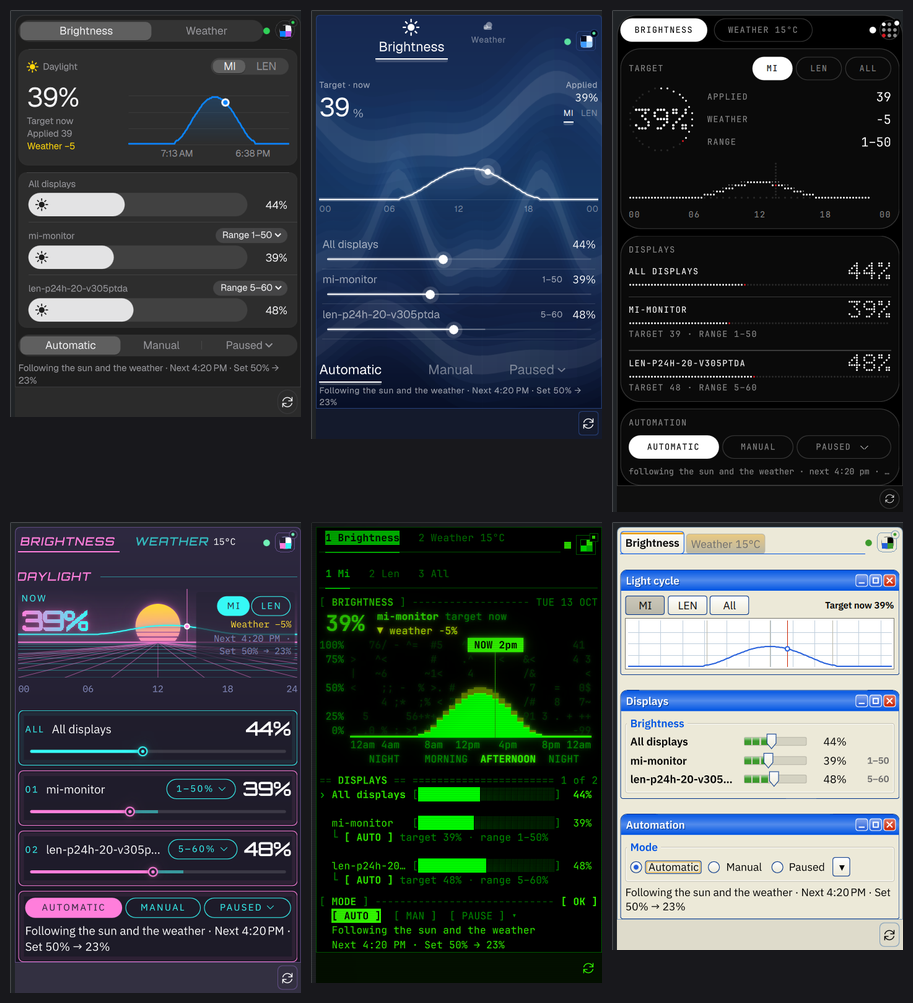
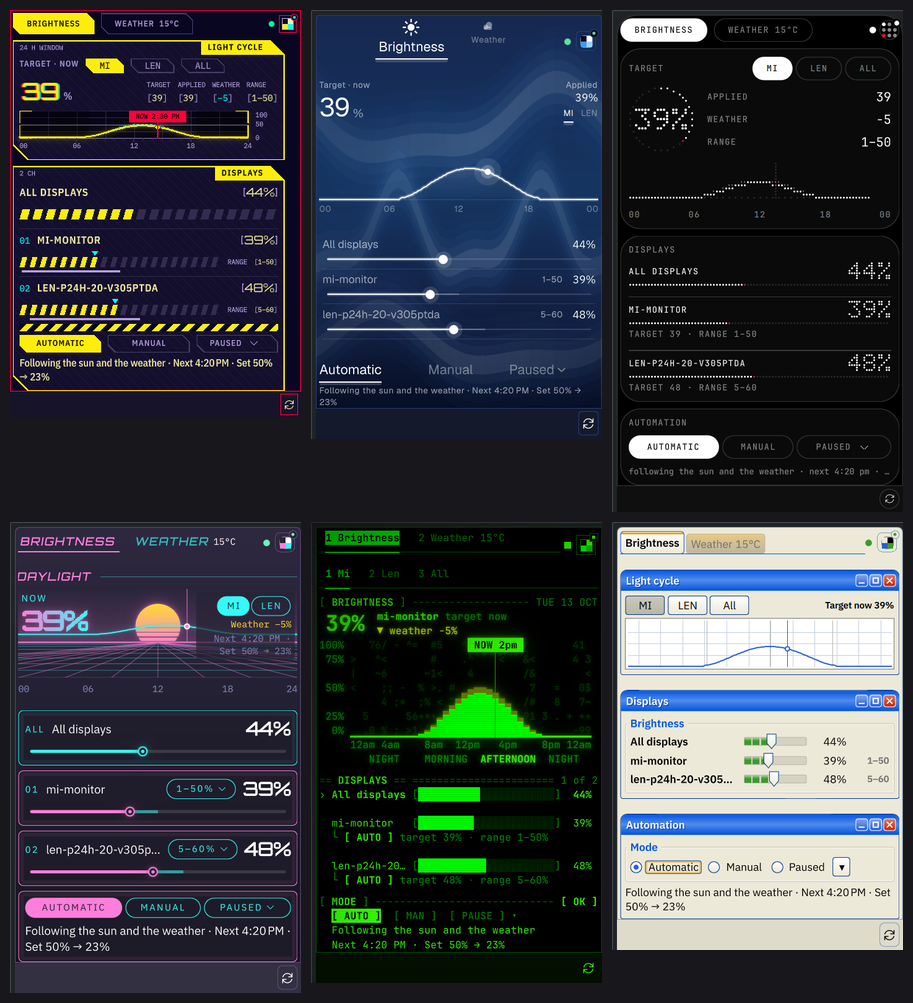
docs(readme): add KDE to Plasma widget, promote section order, feature Cyberpunk theme

Changed region(s): [[0.0, 0.0, 0.3373, 0.4327]]

diff --git a/README.md b/README.md
@@ -3,7 +3,7 @@
   <br/>
   <a href="https://ratatui.rs"><img src="https://img.shields.io/badge/Built_with-Ratatui-000?logo=ratatui&logoColor=fff&labelColor=201a16&color=ffd970" alt="Built with Ratatui" /></a>
   <img src="https://img.shields.io/badge/Language-Rust_1.80+-orange?logo=rust&logoColor=white" alt="Rust" />
-  <img src="https://img.shields.io/badge/Platform-Linux_|_Windows-blue" alt="Platform" />
+  <img src="https://img.shields.io/badge/Platform-Linux-blue" alt="Platform" />
   <img src="https://img.shields.io/badge/License-GPL--3.0--or--later-blue.svg" alt="License" />
 </div>
 
@@ -29,6 +29,39 @@ SunReactor features an immediate-style, terminal UI built with `ratatui` with 40
 
 ---
 
+## // KDE PLASMA WIDGET
+
+A KDE Plasma 6 panel widget with a popup: day curve, a slider per display, automation mode and weather. It follows the terminal UI's theme or a pinned one. It is a QML package with a small C++ plugin that talks to the daemon's socket, and it does no brightness logic of its own.
+
+<div align="center">
+  <img src="docs/images/widget-themes.png" alt="KDE Plasma widget, brightness page: Cyberpunk, PS3, Nothing, Synthwave 84, Hacker Green, Windows XP" width="95%" />
+  <br/>
+  <img src="docs/images/widget-weather.png" alt="KDE Plasma widget, weather page: Cyberpunk, Wii, Casio Digital" width="95%" />
+</div>
+
+Top: brightness page in Cyberpunk, PS3, Nothing, Synthwave 84, Hacker Green and Windows XP. Bottom: weather page in Cyberpunk, Wii and Casio Digital. The full theme list is in [THEMES.md](docs/THEMES.md).
+
+### Requirements
+- Plasma 6 with KF6 and Qt 6, CMake 3.22+, `extra-cmake-modules`, a C++20 compiler
+- `sunreactord` from this version (older daemons work, but without themes and the day curve)
+
+### Install
+From a clone, `./install.sh` builds and installs the widget (`--no-plasma` skips it). Then restart plasmashell:
+
+```bash
+systemctl --user restart plasma-plasmashell.service
+```
+
+Manual install and file locations are in [docs/PLASMA.md](docs/PLASMA.md).
+
+### Settings
+Theme (follow or pin), panel mode (sky, readout, sparkline, ring), weather icon style, and which popup sections to show. Defaults work without changes.
+
+### Troubleshooting
+Wrong popup size, QML import errors and an old daemon are covered in [docs/PLASMA.md](docs/PLASMA.md).
+
+---
+
 ## // RECENT CHANGES
 
 Details are in [CHANGELOG.md](CHANGELOG.md). The main points:
@@ -36,7 +69,7 @@ Details are in [CHANGELOG.md](CHANGELOG.md). The main points:
 **Next release (0.13.0)**
 - Themes are TOML data shared by the terminal UI and the Plasma widget. 40 are built in; you can add your own in `~/.config/sunreactor/themes/` ([docs/THEMES.md](docs/THEMES.md)).
 - New `sunreactorctl theme` commands, and new IPC requests (`list_themes`, `get_theme`, `day_curve`) used by the widget.
-- The Plasma widget was rewritten around that theme data: see [Plasma widget](#-plasma-widget).
+- The Plasma widget was rewritten around that theme data: see [KDE Plasma widget](#-kde-plasma-widget).
 
 **0.12.0**
 - Monitor power state is read from DRM sysfs before DDC commands are sent, so sleeping or disconnected displays are skipped.
@@ -145,7 +178,7 @@ SunReactor computes target brightness deterministically without requiring consta
 
 ### 2. Native KDE Plasma 6 Desktop Integration
 A KDE Plasma 6 panel widget lives in [`plasma/`](plasma/). It shows the current brightness, the day curve and the weather, and lets you pause automation or set a manual brightness per display.
-- Installation, settings and troubleshooting are in [Plasma widget](#-plasma-widget).
+- Installation, settings and troubleshooting are in [KDE Plasma widget](#-kde-plasma-widget).
 
 ### 3. Scriptable Control CLI (`sunreactorctl`)
 ```bash
@@ -165,7 +198,7 @@ sunreactorctl theme set nord       # Set tui.theme and reload the daemon
 ## // INSTALLATION & COMPATIBILITY
 
 ### System Requirements
-- **OS:** Linux (Kernel $\ge 5.15$, glibc $\ge 2.34$ or musl) or Windows 10/11.
+- **OS:** Linux (Kernel $\ge 5.15$, glibc $\ge 2.34$ or musl).
 - **Arch / CachyOS / Fedora / Debian / Ubuntu / openSUSE** fully qualified.
 - **Hardware Backends:**
   - External Displays: `ddcutil` ($\ge 1.4.1$, recommended $\ge 2.2.0$) with user access to `/dev/i2c-*` (`uaccess` or `i2c` group).
@@ -178,7 +211,7 @@ curl -sL https://raw.githubusercontent.com/arcanorca/SunReactor/main/install.sh 
 
 *The installer verifies the release SHA-256 manifest and installs unprivileged binaries to `~/.local/bin`. When a systemd user manager is available, it also installs, enables, and starts `sunreactord.service`, then verifies that the daemon answers on IPC. Use `--no-service` to install without starting brightness automation.*
 
-*From a clone, the installer also builds the Plasma widget when `plasmashell` and `kpackagetool6` are installed. `--no-plasma` skips it, `--with-plasma` tries anyway, and `--dry-run` prints the widget plan and changes nothing. See [Plasma widget](#-plasma-widget).*
+*From a clone, the installer also builds the Plasma widget when `plasmashell` and `kpackagetool6` are installed. `--no-plasma` skips it, `--with-plasma` tries anyway, and `--dry-run` prints the widget plan and changes nothing. See [KDE Plasma widget](#-kde-plasma-widget).*
 
 ### Building from Source (Optimized Native Profile)
 ```bash
@@ -290,39 +323,6 @@ sunreactorctl theme export dracula > ~/.config/sunreactor/themes/mine.toml
 sunreactorctl theme validate                 # check every user theme file
 sunreactorctl theme validate ./mine.toml     # check one file (extends / aliases included)
 ```
-
----
-
-## // PLASMA WIDGET
-
-A Plasma 6 panel widget with a popup: day curve, a slider per display, automation mode and weather. It follows the terminal UI's theme or a pinned one. It is a QML package with a small C++ plugin that talks to the daemon's socket, and it does no brightness logic of its own.
-
-<div align="center">
-  <img src="docs/images/widget-themes.png" alt="Plasma widget, brightness page: macOS, PS3, Nothing, Synthwave 84, Hacker Green, Windows XP" width="95%" />
-  <br/>
-  <img src="docs/images/widget-weather.png" alt="Plasma widget, weather page: macOS, Wii, Casio Digital" width="95%" />
-</div>
-
-Top: brightness page in macOS, PS3, Nothing, Synthwave 84, Hacker Green and Windows XP. Bottom: weather page in macOS, Wii and Casio Digital. The full theme list is in [THEMES.md](docs/THEMES.md).
-
-### Requirements
-- Plasma 6 with KF6 and Qt 6, CMake 3.22+, `extra-cmake-modules`, a C++20 compiler
-- `sunreactord` from this version (older daemons work, but without themes and the day curve)
-
-### Install
-From a clone, `./install.sh` builds and installs the widget (`--no-plasma` skips it). Then restart plasmashell:
-
-```bash
-systemctl --user restart plasma-plasmashell.service
-```
-
-Manual install and file locations are in [docs/PLASMA.md](docs/PLASMA.md).
-
-### Settings
-Theme (follow or pin), panel mode (sky, readout, sparkline, ring), weather icon style, and which popup sections to show. Defaults work without changes.
-
-### Troubleshooting
-Wrong popup size, QML import errors and an old daemon are covered in [docs/PLASMA.md](docs/PLASMA.md).
 
 ---
 

diff --git a/docs/PLASMA.md b/docs/PLASMA.md
@@ -1,4 +1,4 @@
-# Plasma widget
+# KDE Plasma widget
 
 The widget is a Plasma 6 panel item with a popup. It is a QML package plus a small C++ plugin that talks to the daemon's control socket. It does no brightness logic and never touches hardware: it shows what `sunreactord` is doing and sends the same commands as `sunreactorctl`.
 
@@ -7,12 +7,12 @@ The popup has a Brightness page (day curve, one slider per display, automation m
 The widget follows the terminal UI's theme by default, or you can pin another theme. Many themes have their own layout and weather icons; the rest use a layout chosen by theme family. The pictures below are a selection. Everything is drawn with QML shapes and a few C++ items, no bitmap assets for the vector themes. Internals and the design notes are in [`DESIGN.md`](../plasma/org.sunreactor.plasma/DESIGN.md).
 
 <div align="center">
-  <img src="images/widget-themes.png" alt="Plasma widget, brightness page: macOS, PS3, Nothing, Synthwave 84, Hacker Green, Windows XP" width="95%" />
+  <img src="images/widget-themes.png" alt="KDE Plasma widget, brightness page: Cyberpunk, PS3, Nothing, Synthwave 84, Hacker Green, Windows XP" width="95%" />
   <br/>
-  <img src="images/widget-weather.png" alt="Plasma widget, weather page: macOS, Wii, Casio Digital" width="95%" />
+  <img src="images/widget-weather.png" alt="KDE Plasma widget, weather page: Cyberpunk, Wii, Casio Digital" width="95%" />
 </div>
 
-Top: brightness page in macOS, PS3, Nothing, Synthwave 84, Hacker Green and Windows XP. Bottom: weather page in macOS, Wii and Casio Digital. The full theme list is in [THEMES.md](THEMES.md).
+Top: brightness page in Cyberpunk, PS3, Nothing, Synthwave 84, Hacker Green and Windows XP. Bottom: weather page in Cyberpunk, Wii and Casio Digital. The full theme list is in [THEMES.md](THEMES.md).
 
 ### Requirements
 - Plasma 6 with KF6 (Kirigami, KPackage) and Qt 6 (Core, Gui, Qml, Quick, Network)
